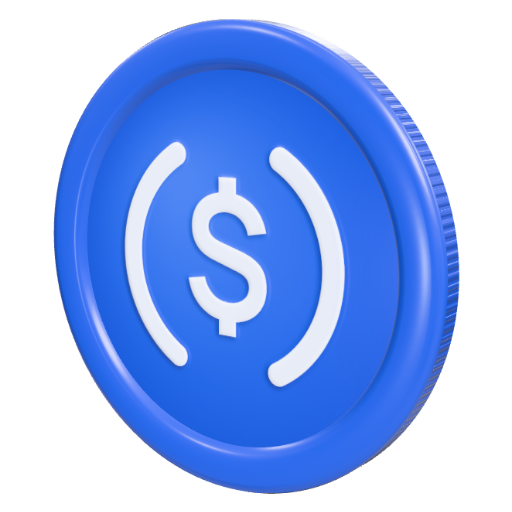
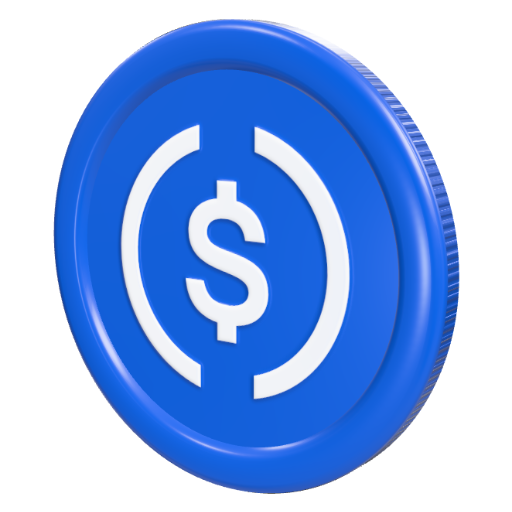
Official USDC artwork on the 3D coin; coin flies away on claim with a contact shadow; radar pulse speeds up near the drop, Android vibration

diff --git a/app/components/coin3d.tsx b/app/components/coin3d.tsx
@@ -1,14 +1,14 @@
 "use client";
-// A real 3D USDC-style coin, built in code (no model file): lathe-turned body with a raised,
-// bevelled rim and recessed faces, an embossed $ + arcs mark, and a ridged edge.
-import { useEffect, useMemo, useRef } from "react";
+// A real 3D USDC coin, built in code (no model file): lathe-turned body with a raised, bevelled rim
+// and recessed faces, Circle's official USDC token artwork embossed on each face, and a ridged edge.
+import { useEffect, useMemo, useRef, useState } from "react";
 import { Canvas, useFrame, useThree } from "@react-three/fiber";
 import * as THREE from "three";
 import { RoomEnvironment } from "three/examples/jsm/environments/RoomEnvironment.js";
 
 export type CoinEntrance = "none" | "drop";
 
-const BLUE = "#2a60d2";
+const BLUE = "#0B53BF"; // Circle's official USDC blue
 const R = 1, H = 0.085, FACE_R = 0.8, FACE_Y = 0.045;
 
 // Coin profile from back face to front face (x = radius, y = height), turned around the Y axis.
@@ -17,9 +17,53 @@ const PROFILE = [
   [R, 0.05], [0.99, 0.072], [0.95, H], [0.85, H], [0.82, 0.072], [FACE_R, FACE_Y],
 ].map(([x, y]) => new THREE.Vector2(x, y));
 
-// The face artwork, drawn once: colour map (blue face, white mark) and bump map (mark raised, soft edges).
-function faceTextures() {
+// Circle's official USDC token logo (public/tokens/usdc.svg, from Circle's Brand Kit), loaded as a
+// vector at full texture size so the face stays sharp.
+let artPromise: Promise<HTMLImageElement> | null = null;
+export function loadUsdcArt(size = 1024): Promise<HTMLImageElement> {
+  return (artPromise ??= fetch("/tokens/usdc.svg")
+    .then((r) => r.text())
+    .then((svg) => {
+      const sized = svg.replace(/width="96"/, `width="${size}"`).replace(/height="96"/, `height="${size}"`);
+      const img = new Image();
+      img.src = URL.createObjectURL(new Blob([sized], { type: "image/svg+xml" }));
+      return img.decode().then(() => img);
+    }));
+}
+
+// Face textures. With the official artwork: its colours as-is, and its white mark raised as the emboss.
+// Without it (still loading, or offline): a drawn fallback.
+function faceTextures(art?: HTMLImageElement) {
   const size = 1024, c = size / 2;
+  if (art) {
+    const colour = document.createElement("canvas");
+    colour.width = colour.height = size;
+    const a = colour.getContext("2d")!;
+    a.fillStyle = BLUE;
+    a.fillRect(0, 0, size, size);
+    a.drawImage(art, 0, 0, size, size);
+    // Emboss: white parts of the logo become raised, with a soft bevel.
+    const mask = document.createElement("canvas");
+    mask.width = mask.height = size;
+    const m = mask.getContext("2d")!;
+    m.drawImage(art, 0, 0, size, size);
+    const px = m.getImageData(0, 0, size, size);
+    for (let i = 0; i < px.data.length; i += 4) {
+      const v = px.data[i] + px.data[i + 1] + px.data[i + 2] > 600 ? 255 : 0;
+      px.data[i] = px.data[i + 1] = px.data[i + 2] = v;
+      px.data[i + 3] = 255;
+    }
+    m.putImageData(px, 0, 0);
+    const bump = document.createElement("canvas");
+    bump.width = bump.height = size;
+    const b = bump.getContext("2d")!;
+    b.filter = "blur(6px)";
+    b.drawImage(mask, 0, 0);
+    const map = new THREE.CanvasTexture(colour);
+    map.colorSpace = THREE.SRGBColorSpace;
+    map.anisotropy = 8;
+    return { map, bump: new THREE.CanvasTexture(bump) };
+  }
   const draw = (ctx: CanvasRenderingContext2D, ink: string) => {
     ctx.strokeStyle = ink;
     ctx.fillStyle = ink;
@@ -92,12 +136,12 @@ function Studio() {
 }
 
 // The coin itself as a plain three.js object, so the live canvas and still renders share it.
-export function createCoin() {
-  const { map, bump } = faceTextures();
+export function createCoin(art?: HTMLImageElement) {
+  const { map, bump } = faceTextures(art);
   const ridges = ridgeTexture();
   const metal = { roughness: 0.34, metalness: 0.12, clearcoat: 1, clearcoatRoughness: 0.18, envMapIntensity: 1.1 };
   const body = new THREE.MeshPhysicalMaterial({ color: BLUE, ...metal });
-  const edge = new THREE.MeshPhysicalMaterial({ color: "#2558c6", bumpMap: ridges, bumpScale: 1.5, ...metal });
+  const edge = new THREE.MeshPhysicalMaterial({ color: "#0A4AAB", bumpMap: ridges, bumpScale: 1.5, ...metal });
   const faceMat = new THREE.MeshPhysicalMaterial({ map, bumpMap: bump, bumpScale: 4, ...metal });
   const face = new THREE.CircleGeometry(FACE_R + 0.002, 96);
   const coin = new THREE.Group();
@@ -123,7 +167,7 @@ function addLights(scene: THREE.Scene) {
 }
 
 // One synchronous render of the coin at a fixed pose to a PNG data URL (no animation loop needed).
-export function renderCoinStill(pose: [number, number], px = 512) {
+export function renderCoinStill(pose: [number, number], px = 512, art?: HTMLImageElement) {
   const canvas = document.createElement("canvas");
   const renderer = new THREE.WebGLRenderer({ canvas, antialias: true, alpha: true, preserveDrawingBuffer: true });
   renderer.setPixelRatio(1);
@@ -134,7 +178,7 @@ export function renderCoinStill(pose: [number, number], px = 512) {
   scene.environment = pmrem.fromScene(new RoomEnvironment(), 0.04).texture;
   addLights(scene);
   const holder = new THREE.Group();
-  holder.add(createCoin());
+  holder.add(createCoin(art));
   holder.rotation.set(pose[0], pose[1], 0);
   scene.add(holder);
   const camera = new THREE.PerspectiveCamera(32, 1, 0.1, 100);
@@ -146,12 +190,20 @@ export function renderCoinStill(pose: [number, number], px = 512) {
   return url;
 }
 
-function CoinMesh({ entrance, motion }: { entrance: CoinEntrance; motion: boolean }) {
+function CoinMesh({ entrance, motion, leaving }: { entrance: CoinEntrance; motion: boolean; leaving: boolean }) {
+  const leave = useRef({ on: false, vy: 0 });
+  useEffect(() => {
+    if (leaving && !leave.current.on) leave.current = { on: true, vy: 0.5 }; // claimed: rise and spin away
+  }, [leaving]);
   const spin = useRef<THREE.Group>(null);
   const drag = useRef({ active: false, lastX: 0, velocity: 0 });
   const enter = useRef({ y: entrance === "drop" ? 3 : 0, vy: 0, boost: entrance === "drop" ? 14 : 0 });
 
-  const coin = useMemo(createCoin, []);
+  const [art, setArt] = useState<HTMLImageElement | null>(null);
+  useEffect(() => {
+    loadUsdcArt().then(setArt).catch(() => setArt(null));
+  }, []);
+  const coin = useMemo(() => (art ? createCoin(art) : null), [art]);
 
   useFrame((state, dt) => {
     const g = spin.current;
@@ -164,6 +216,17 @@ function CoinMesh({ entrance, motion }: { entrance: CoinEntrance; motion: boolea
       const idle = motion ? 0.9 : 0;
       d.velocity += (idle + e.boost - d.velocity) * Math.min(1, dt * 2.2);
       e.boost *= Math.pow(0.12, dt);
+    }
+    if (leave.current.on) {
+      // Fly up and out of frame, spinning faster: the money is on its way to the wallet.
+      const l = leave.current;
+      l.vy += 14 * dt;
+      e.y += l.vy * dt;
+      d.velocity += 30 * dt;
+      g.rotation.y += d.velocity * dt;
+      g.position.y = e.y;
+      g.scale.setScalar(Math.max(0.6, 1 - e.y * 0.08));
+      return;
     }
     g.rotation.y += d.velocity * dt;
     // Spring the entrance drop, then a gentle bob.
@@ -192,7 +255,7 @@ function CoinMesh({ entrance, motion }: { entrance: CoinEntrance; motion: boolea
       onPointerUp={() => (drag.current.active = false)}
       onPointerCancel={() => (drag.current.active = false)}
     >
-      <primitive object={coin} />
+      {coin && <primitive object={coin} />}
     </group>
   );
 }
@@ -201,10 +264,12 @@ export default function Coin3D({
   size = 220,
   entrance = "none",
   className = "",
+  leaving = false,
 }: {
   size?: number;
   entrance?: CoinEntrance;
   className?: string;
+  leaving?: boolean; // true once a claim starts: the coin flies up and away
 }) {
   const motion = useMemo(() => typeof window === "undefined" || !window.matchMedia("(prefers-reduced-motion: reduce)").matches, []);
   return (
@@ -216,7 +281,7 @@ export default function Coin3D({
         style={{ touchAction: "pan-y" }}
       >
         <Studio />
-        <CoinMesh entrance={motion ? entrance : "none"} motion={motion} />
+        <CoinMesh entrance={motion ? entrance : "none"} motion={motion} leaving={leaving && motion} />
       </Canvas>
     </div>
   );

diff --git a/app/app/hunt/[dropId]/page.tsx b/app/app/hunt/[dropId]/page.tsx
@@ -55,8 +55,8 @@ function ClaimScene({
         <span style={{ width: 42 }} />
       </div>
       <div className="scene-center">
-        <Coin3D size={260} entrance="drop" />
-        <div className="ground-ring" />
+        <Coin3D size={260} entrance="drop" leaving={claim.busy} />
+        <div className={`ground-ring ${claim.busy ? "released" : ""}`} />
       </div>
       <div className="scene-bottom">
         <h2>{money(drop.amount)} USDC drop</h2>
@@ -155,6 +155,18 @@ function Hunt({ dropId }: { dropId: string }) {
   const absBearing = position && target ? bearing(position, target) : null;
   const angle = absBearing === null ? 0 : heading !== null ? absBearing - heading : absBearing;
   const showScene = !!drop && near && accurate && !drop.claimed && !sceneClosed;
+  // Closer = faster, stronger radar pulse (2.4 s far away, 0.55 s at the spot).
+  const pulse = drop?.distanceM === undefined ? 2.4 : Math.max(0.55, Math.min(2.4, drop.distanceM / 120));
+
+  // Phones that support it (Android) buzz briefly on "warmer", and twice on arrival.
+  const buzzed = useRef(false);
+  useEffect(() => {
+    if (typeof navigator === "undefined" || !("vibrate" in navigator)) return;
+    if (near && !buzzed.current) {
+      buzzed.current = true;
+      navigator.vibrate([60, 50, 60]);
+    } else if (trend === "warmer") navigator.vibrate(25);
+  }, [trend, near, drop?.distanceM]);
 
   const trendText = near
     ? "You're right there"
@@ -192,7 +204,7 @@ function Hunt({ dropId }: { dropId: string }) {
               <span className="dial-ticks major" />
               <span className="dial-north" />
               {absBearing !== null && (
-                <div className="dial-orbit" style={{ transform: `rotate(${angle}deg)` }}>
+                <div className={`dial-orbit ${pulse < 1 ? "hot" : ""}`} style={{ transform: `rotate(${angle}deg)`, "--pulse": `${pulse}s` } as React.CSSProperties}>
                   <span className="coin-marker" style={{ transform: `translate(-50%, 0) rotate(${-angle}deg)` }}>
                     <Coin size="sm" />
                   </span>

diff --git a/app/app/globals.css b/app/app/globals.css
@@ -1043,3 +1043,36 @@ input:focus, textarea:focus, select:focus { outline: none; border-color: color-m
   mask: radial-gradient(closest-side, #000 60%, transparent);
   transition: transform 300ms var(--ease-out);
 }
+
+/* Claim scene: soft contact shadow under the floating coin; it fades as the coin flies away */
+.ground-ring { position: relative; }
+.ground-ring::before {
+  content: "";
+  position: absolute;
+  left: 22%;
+  right: 22%;
+  top: 30%;
+  bottom: 18%;
+  border-radius: 50%;
+  background: radial-gradient(closest-side, rgba(6, 30, 20, 0.45), transparent);
+  filter: blur(4px);
+  animation: shadow-bob 4s ease-in-out infinite;
+  transition: opacity 400ms ease;
+}
+@keyframes shadow-bob { 50% { transform: scaleX(0.86); opacity: 0.75; } }
+.ground-ring.released::before { opacity: 0; }
+.ground-ring.released { opacity: 0.4; transition: opacity 500ms ease; }
+.scene .coin3d { overflow: visible; }
+
+/* Hunt: the radar around the target pulses faster as you get closer */
+.dial-orbit .coin-marker::before { animation-duration: var(--pulse, 1.8s); }
+.dial-orbit .coin-marker::after {
+  content: "";
+  position: absolute;
+  inset: -14px;
+  border-radius: 50%;
+  border: 2px solid rgba(31, 107, 255, 0.3);
+  animation: ping var(--pulse, 1.8s) var(--ease-out) infinite;
+  animation-delay: calc(var(--pulse, 1.8s) / 2);
+}
+.dial-orbit.hot .coin-marker::before, .dial-orbit.hot .coin-marker::after { border-color: rgba(31, 107, 255, 0.6); border-width: 2.5px; }

diff --git a/app/app/dev/coin/page.tsx b/app/app/dev/coin/page.tsx
@@ -37,9 +37,10 @@ export default function CoinStills() {
     if (process.env.NODE_ENV !== "development") return;
     (async () => {
       await document.fonts.load("700 470px Manrope"); // the $ is drawn with the brand font
-      const { renderCoinStill } = await import("@/components/coin3d");
+      const { renderCoinStill, loadUsdcArt } = await import("@/components/coin3d");
+      const art = await loadUsdcArt(1024);
       for (const [name, pose] of Object.entries(POSES)) {
-        const data = await cropToCoin(renderCoinStill(pose, 768));
+        const data = await cropToCoin(renderCoinStill(pose, 768, art));
         const r = await fetch("/api/dev/coin", { method: "POST", headers: { "content-type": "application/json" }, body: JSON.stringify({ name, data }) });
         setLog((l) => [...l, `${name}: ${r.status}`]);
       }

diff --git a/app/components/coin3d-loader.tsx b/app/components/coin3d-loader.tsx
@@ -17,7 +17,7 @@ function hasWebGL() {
   }
 }
 
-export function Coin3D({ size = 220, entrance = "none" }: { size?: number; entrance?: CoinEntrance }) {
+export function Coin3D({ size = 220, entrance = "none", leaving = false }: { size?: number; entrance?: CoinEntrance; leaving?: boolean }) {
   const [gl, setGl] = useState<boolean | null>(null);
   useEffect(() => setGl(hasWebGL()), []);
   if (!gl)
@@ -26,5 +26,5 @@ export function Coin3D({ size = 220, entrance = "none" }: { size?: number; entra
         <Coin size="xl" spin float style={{ "--s": `${Math.round(size * 0.62)}px` } as React.CSSProperties} />
       </div>
     );
-  return <Coin3DCanvas size={size} entrance={entrance} />;
+  return <Coin3DCanvas size={size} entrance={entrance} leaving={leaving} />;
 }
